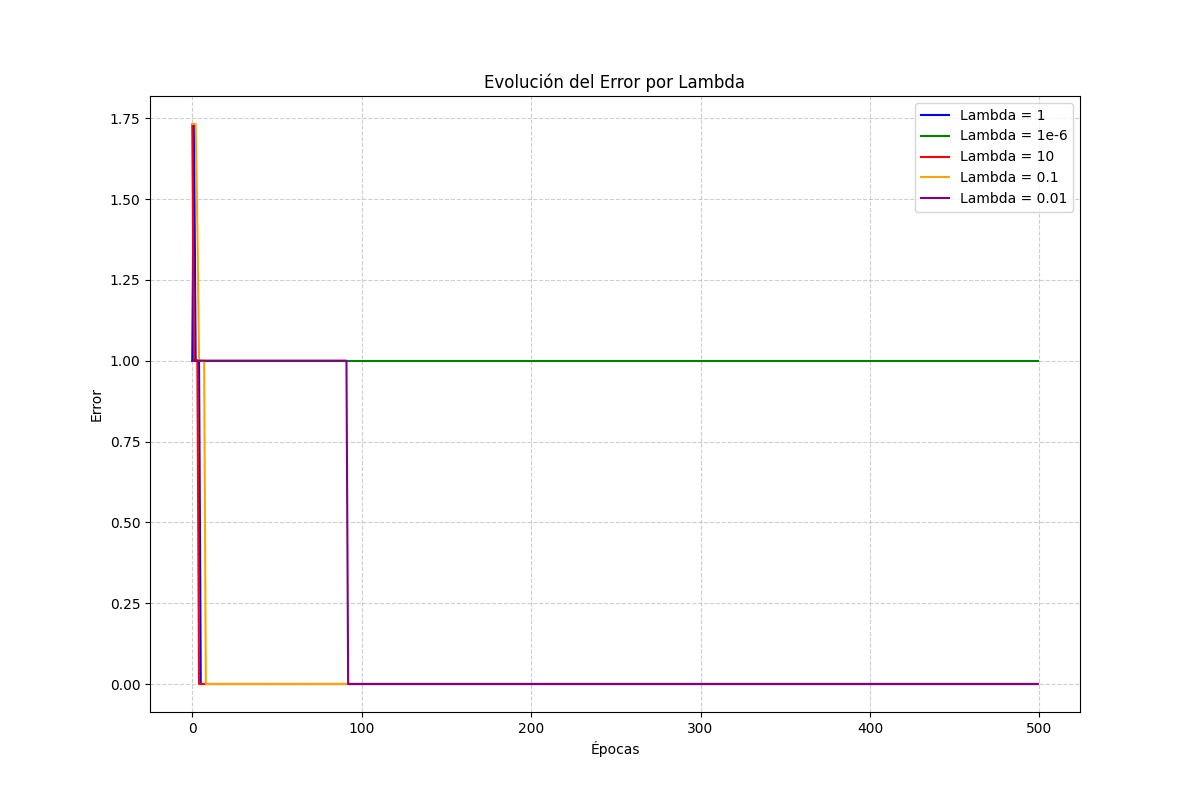
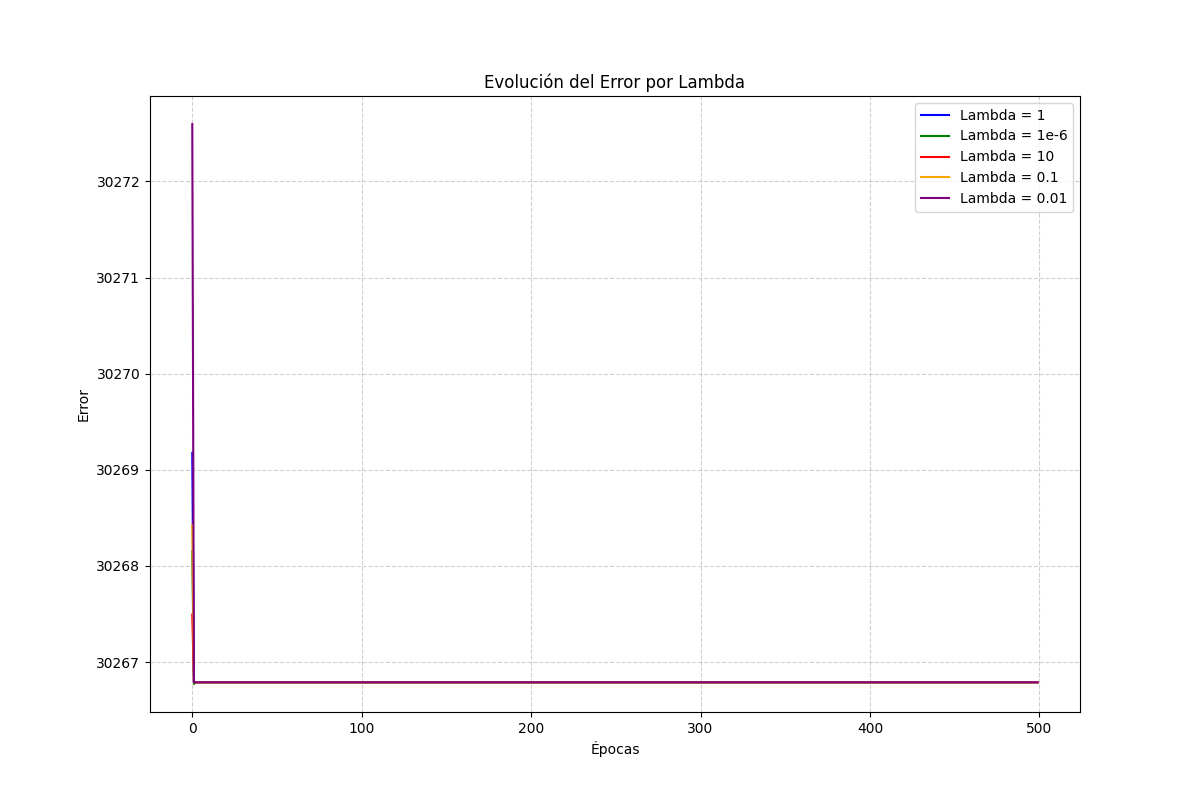
listo

diff --git a/NeuronalNetwork.py b/NeuronalNetwork.py
@@ -4,7 +4,7 @@ import numpy.linalg as la
 from entities.data_results import DataResults
 
 class NeuronalNetwork:
-    def __init__(self, path_dataset: str, skiprows = 1):
+    def __init__(self, path_dataset: str, skiprows = 0):
         self.dataset = np.loadtxt(path_dataset, delimiter=",", skiprows=skiprows)
         self.Y_values = self.__slicing_Y_values()
         self.X_values = self.__slicing_X_values()

diff --git a/app.py b/app.py
@@ -7,7 +7,7 @@ lambdas = [1, 1e-6, 10, 0.1, 0.01]
 results = []
 
 for lambda_value in lambdas:
-    neuronalNet = NeuronalNetwork('datasets/or.csv')
+    neuronalNet = NeuronalNetwork('datasets/A233392.csv')
     print(f"\n--- Iniciando Entrenamiento Lambda = {lambda_value} ---")
     results.append(neuronalNet.train(epochs=500, lambda_value=lambda_value))
 
